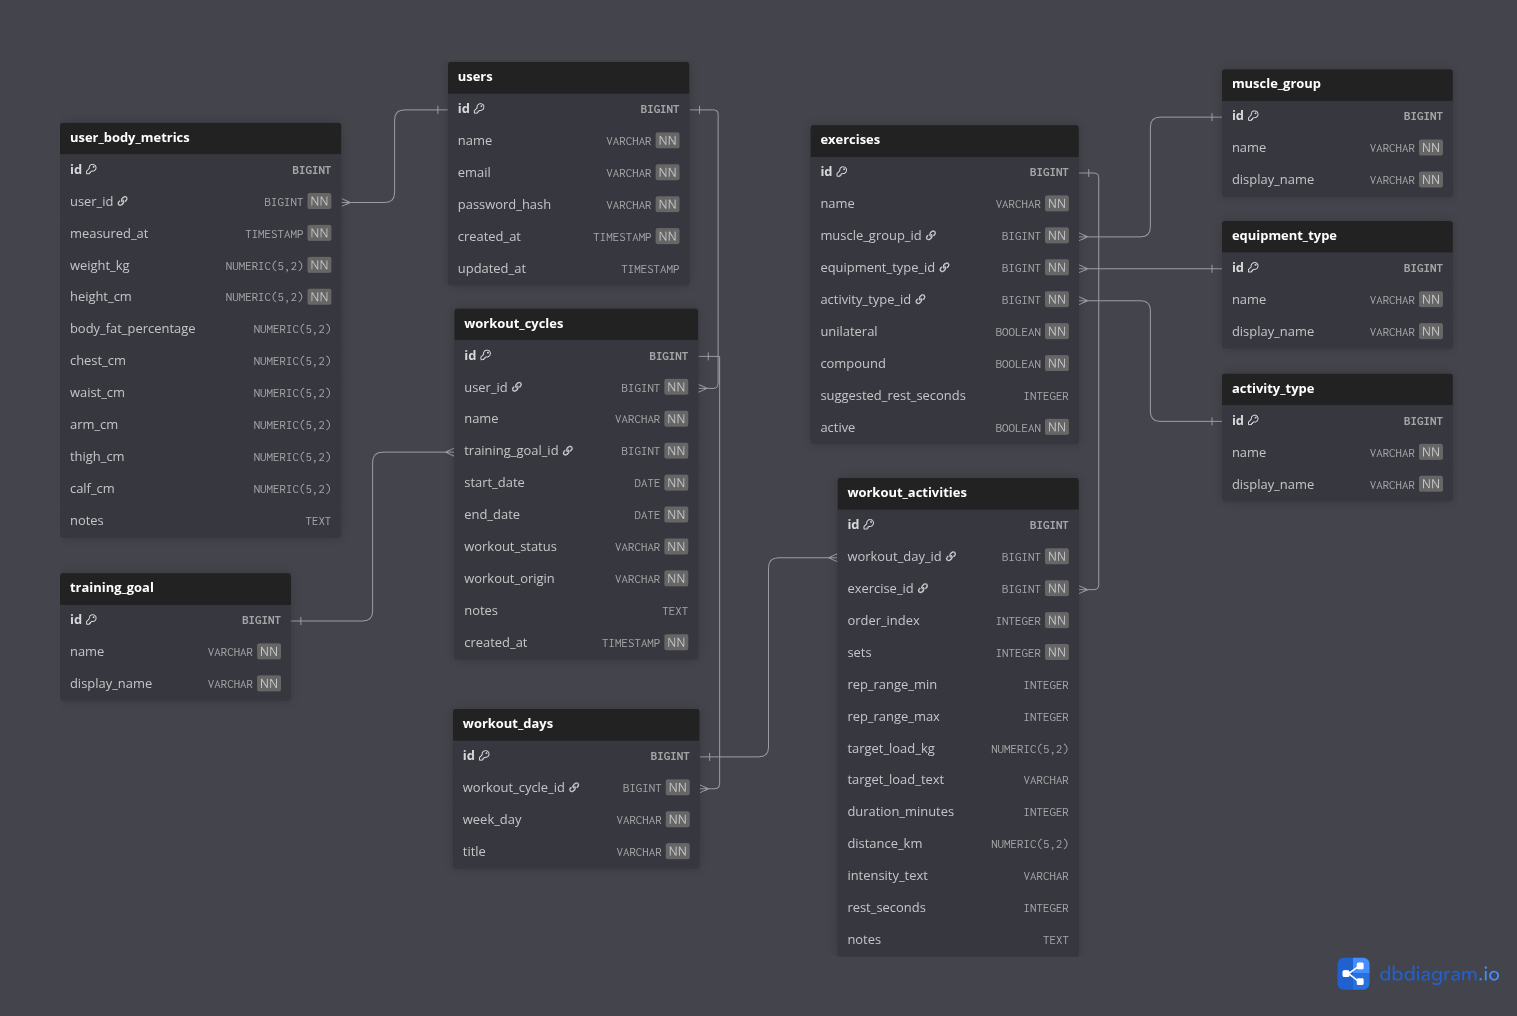
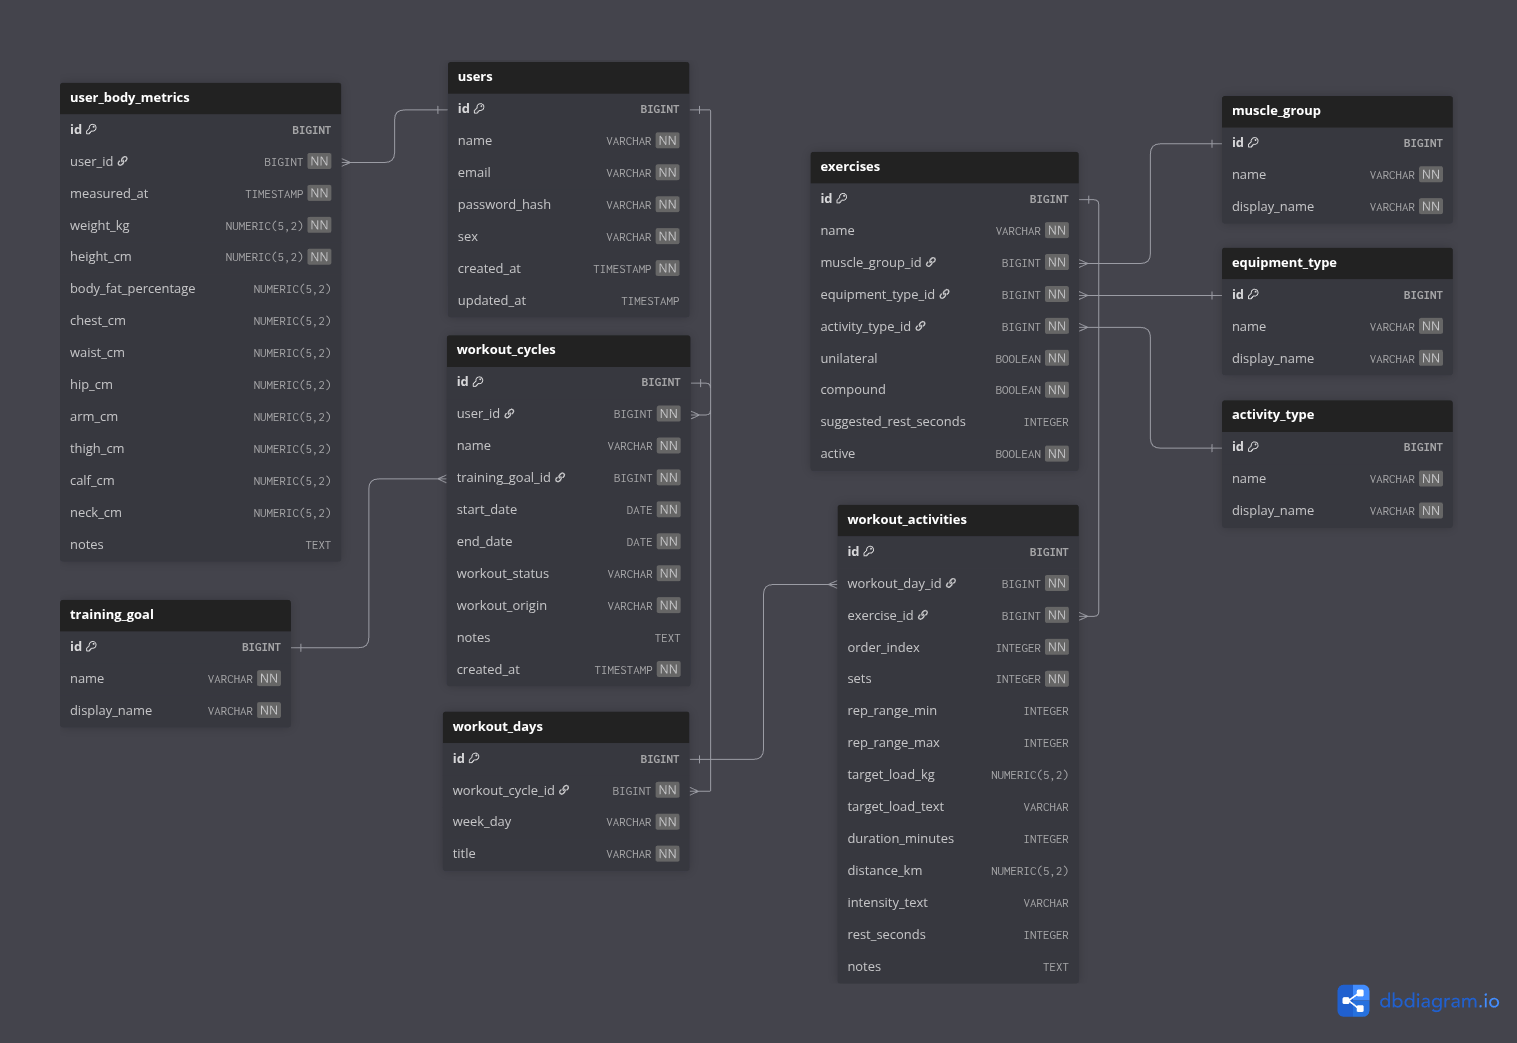
docs(erd): update ER diagram adding new values (#38)

diff --git a/docs/diagram/er-sql/IronCoreER Diagram.md b/docs/diagram/er-sql/IronCoreER Diagram.md
@@ -41,6 +41,7 @@ Armazena os dados principais do usuário.
 | `name` | `VARCHAR` | Sim | Nome do usuário. |
 | `email` | `VARCHAR` | Sim | E-mail único para autenticação e contato. |
 | `password_hash` | `VARCHAR` | Sim | Hash da senha do usuário. |
+| `sex` | `VARCHAR` | Sim | Sexo utilizado em cálculos corporais, como estimativa de percentual de gordura. |
 | `created_at` | `TIMESTAMP` | Sim | Data e hora de criação do registro. |
 | `updated_at` | `TIMESTAMP` | Não | Data e hora da última atualização. |
 
@@ -56,8 +57,10 @@ Registra o histórico de medições corporais de cada usuário, permitindo acomp
 | `weight_kg` | `NUMERIC(5,2)` | Sim | Peso corporal em quilogramas. |
 | `height_cm` | `NUMERIC(5,2)` | Sim | Altura em centímetros. |
 | `body_fat_percentage` | `NUMERIC(5,2)` | Não | Percentual de gordura corporal. |
+| `neck_cm` | `NUMERIC(5,2)` | Não | Medida do pescoço em centímetros. |
 | `chest_cm` | `NUMERIC(5,2)` | Não | Medida do tórax em centímetros. |
 | `waist_cm` | `NUMERIC(5,2)` | Não | Medida da cintura em centímetros. |
+| `hip_cm` | `NUMERIC(5,2)` | Não | Medida do quadril em centímetros. |
 | `arm_cm` | `NUMERIC(5,2)` | Não | Medida do braço em centímetros. |
 | `thigh_cm` | `NUMERIC(5,2)` | Não | Medida da coxa em centímetros. |
 | `calf_cm` | `NUMERIC(5,2)` | Não | Medida da panturrilha em centímetros. |
